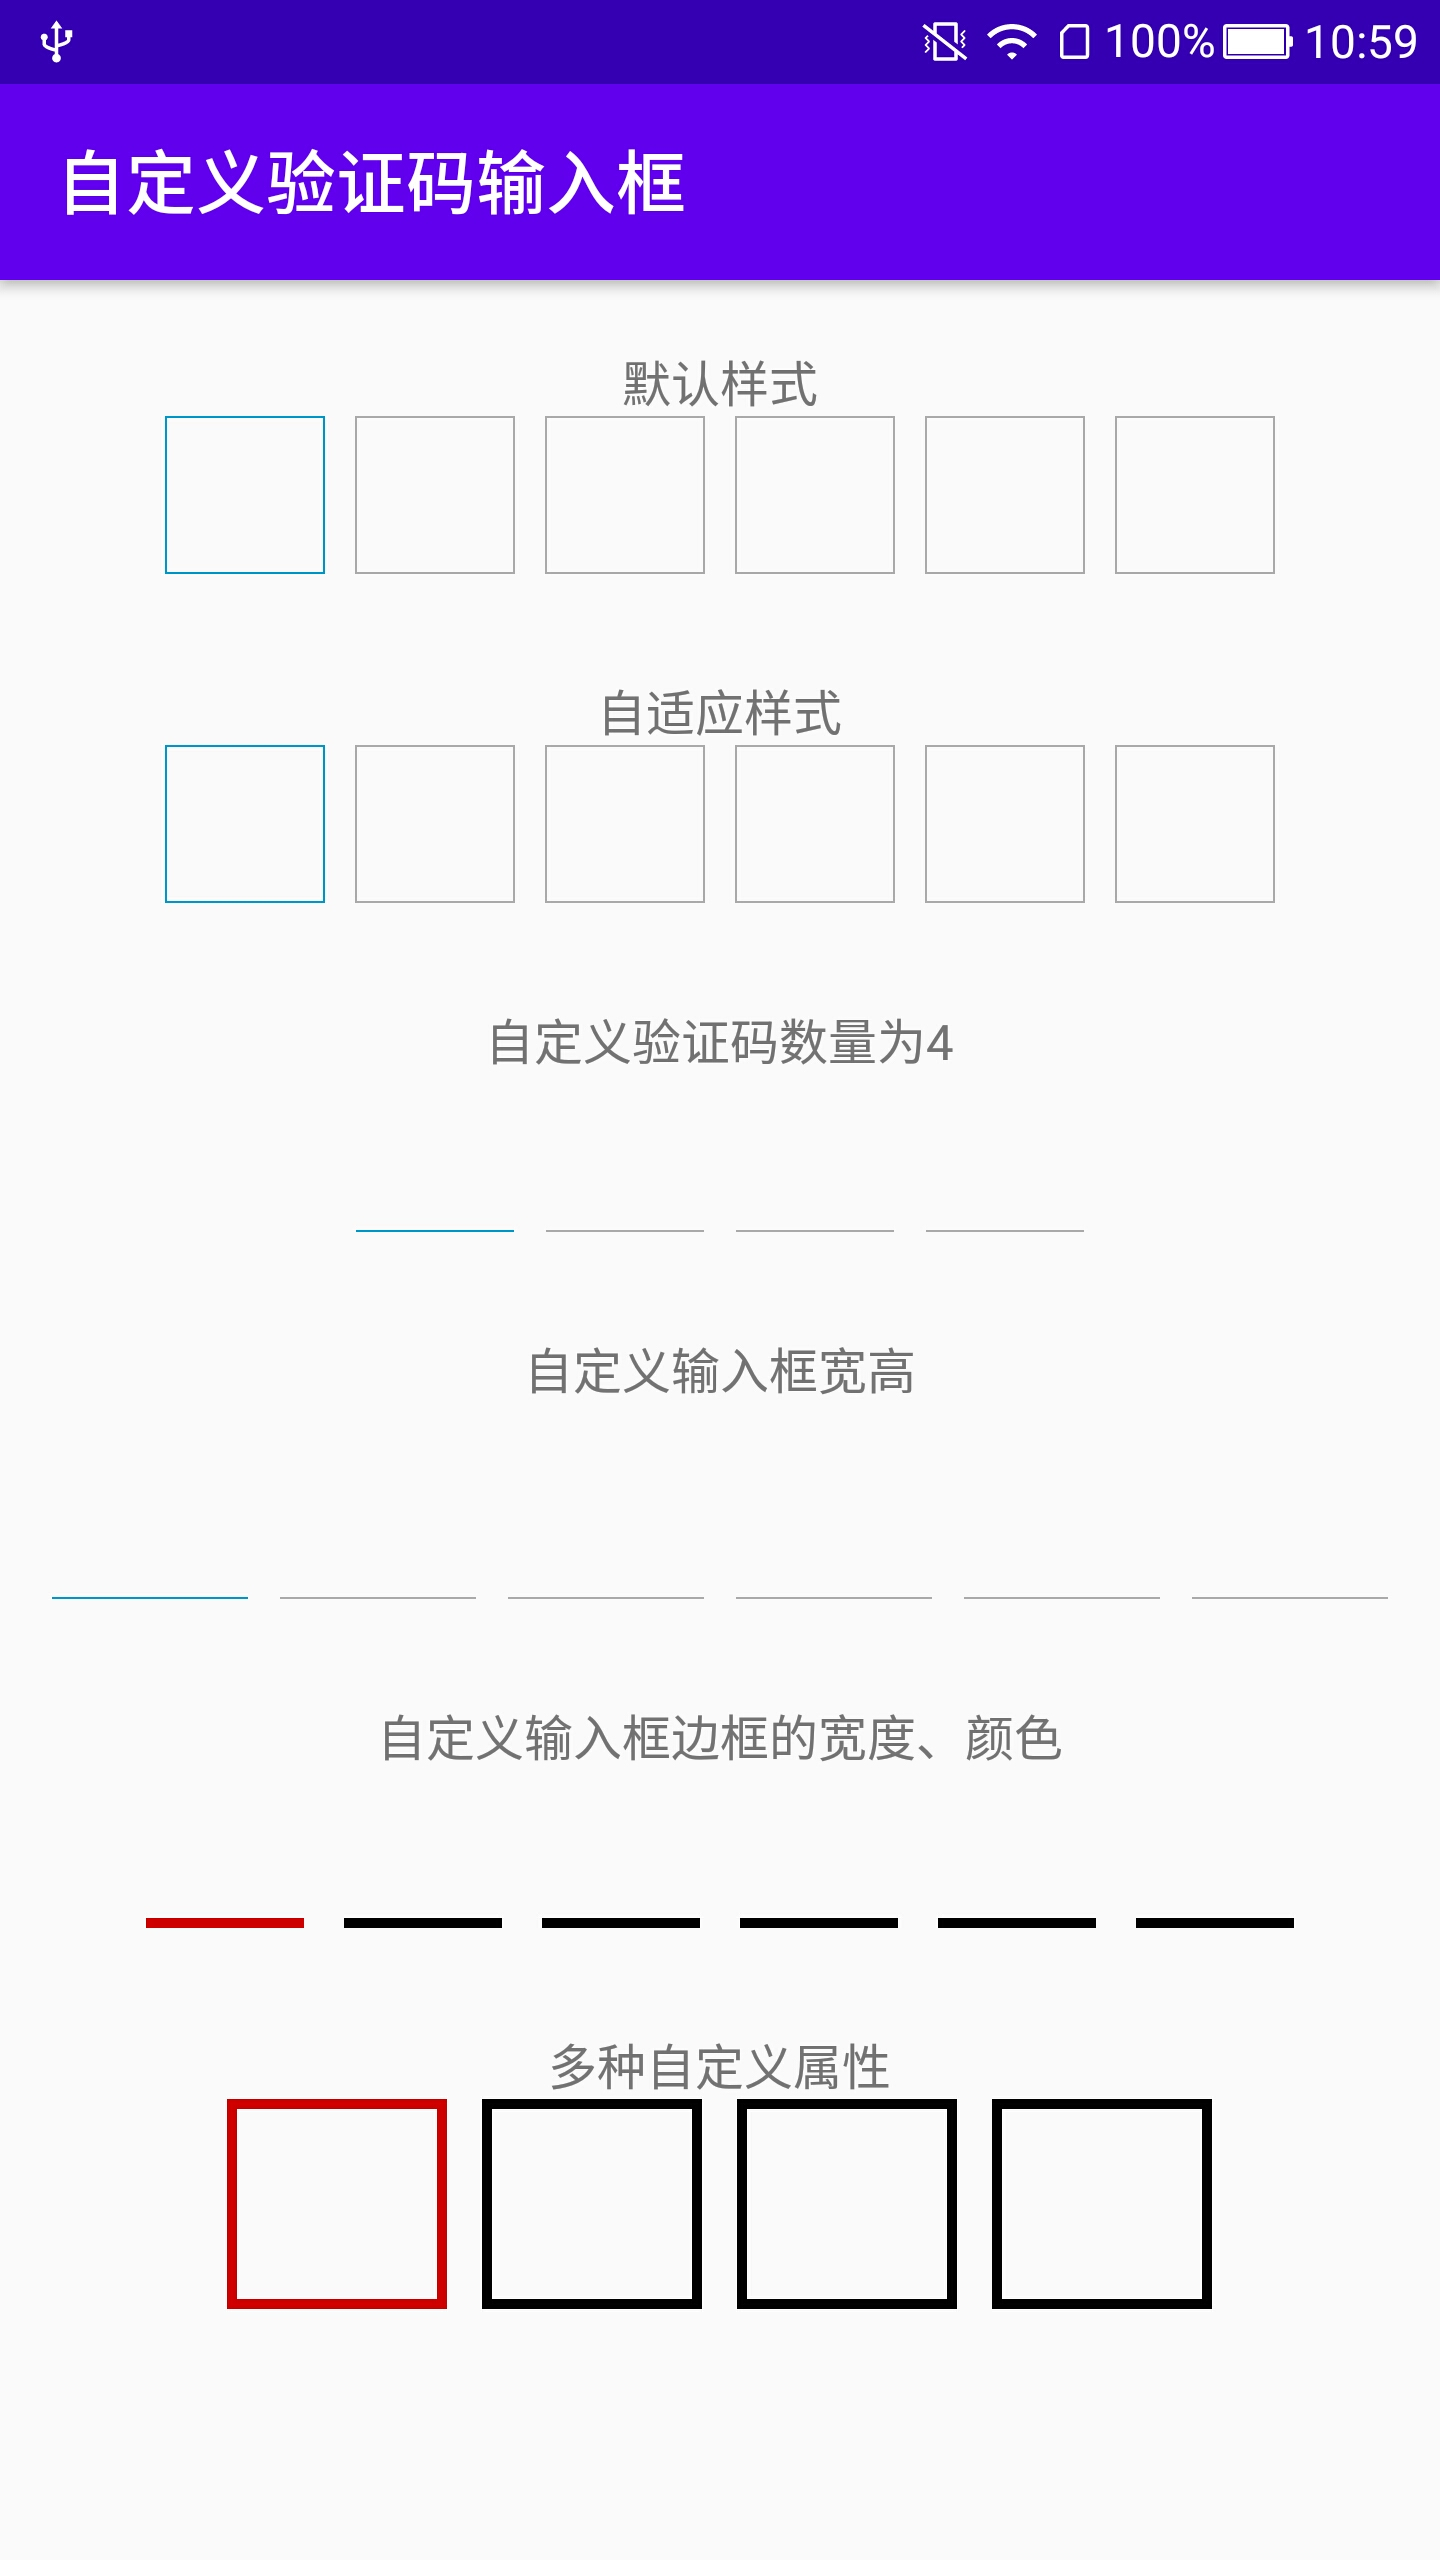
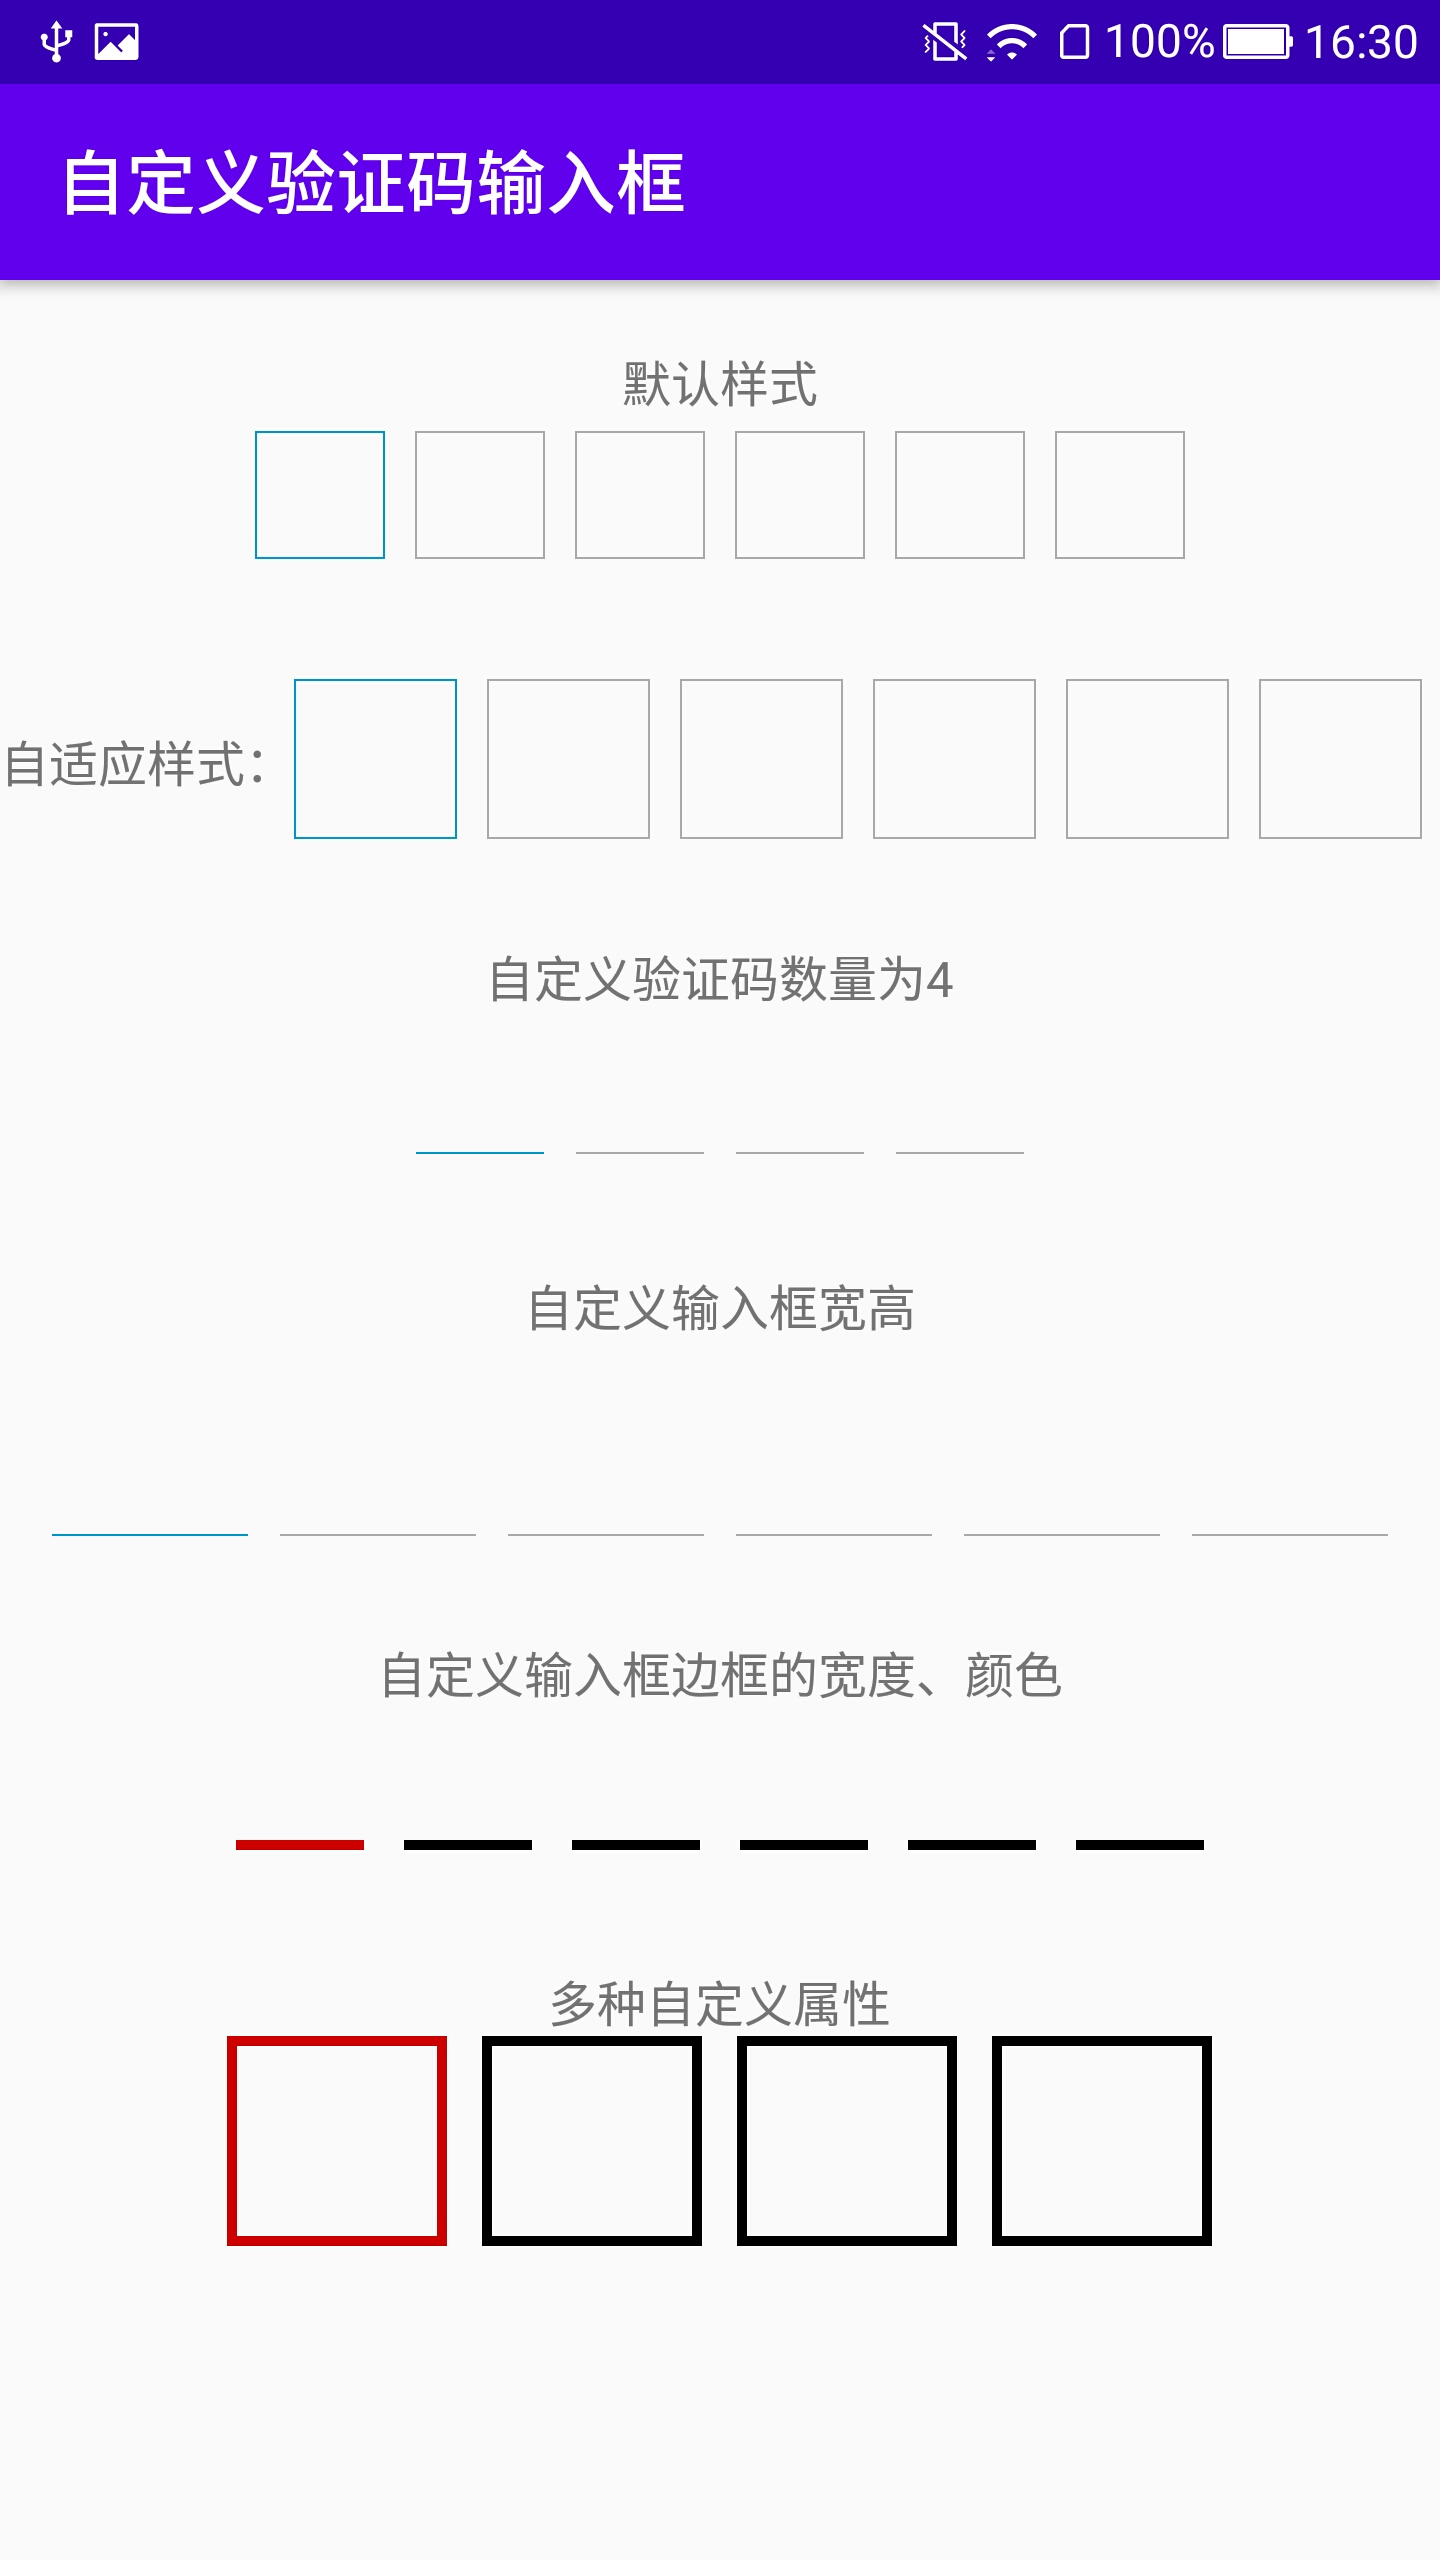
输入框垂直居中显示
输入框垂直居中显示；
输入框宽高以两者中较小值为准；

diff --git a/view/src/main/java/com/cocoas/view/VerifyCodeInputView.java b/view/src/main/java/com/cocoas/view/VerifyCodeInputView.java
@@ -48,6 +48,7 @@ public class VerifyCodeInputView extends AppCompatEditText {
     // 输入框边框高亮颜色
     private int boxBorderColorFocused = getResources().getColor(android.R.color.holo_blue_dark);
     // 输入框是否自动适应父布局宽度：如果不自动适应，则以设定的宽高为准
+    // 该属性需要配合android:layout_width="match_parent"属性一起使用，否则可能无效
     private boolean autoFit;
     // 输入框类型
     private int boxType = BoxType.LINE;
@@ -56,6 +57,8 @@ public class VerifyCodeInputView extends AppCompatEditText {
     private Rect boxRect = new Rect();
     //输入完成监听
     private OnInputFinishedListener onInputFinishedListener;
+    // 输入框中间坐标Y轴高度
+    int centerY = 0;
 
     public VerifyCodeInputView(Context context, AttributeSet attrs) {
         super(context, attrs);
@@ -104,11 +107,12 @@ public class VerifyCodeInputView extends AppCompatEditText {
      * 自动计算输入框宽高和间距
      */
     private void calculateAttrs(int width) {
-        // 计算输入框间间距
-        boxSpacing = (width - (boxBorderHeight + boxWidth) * boxCount) / ( boxCount - 1);
+//        // 计算输入框间间距
+//        boxSpacing = (width - (boxBorderHeight + boxWidth) * boxCount) / ( boxCount - 1);
 //		Logger.d("getMeasuredWidth()=" + width);
-//        boxWidth = boxSpacing * spacingRate;
-//        boxHeight = boxWidth;
+        // 计算输入框宽度
+        boxWidth = (width - boxSpacing * (boxCount - 1) - boxBorderHeight * boxCount) / boxCount;
+        boxHeight = boxWidth;
 //		Logger.w("boxWidth=" + boxWidth + ",boxHeight=" + boxHeight + ",boxSpacing=" + boxSpacing);
     }
 
@@ -140,15 +144,20 @@ public class VerifyCodeInputView extends AppCompatEditText {
         int widthSpecModel = MeasureSpec.getMode(widthMeasureSpec);
         int heightSpecModel = MeasureSpec.getMode(heightMeasureSpec);
         // 比较输入框默认的高度（根据字体大小等自动计算的高度）是否符合设定的高度boxHeight
-        // 最终的高度不能小于输入框默认的高度，以防止输入的数字显示有问题
         if (height < boxHeight) {
             height = boxHeight;
-        }else{
-            // 重置输入框的高度为默认高度
-            boxHeight = height;
         }
-        // 设置单个输入框的宽高相同
-        boxWidth = boxHeight;
+//        else{
+//            // 重置输入框的高度为默认高度
+//            boxHeight = height;
+//        }
+        // 设置单个输入框的宽高相同：取宽高中最小值
+        if(boxWidth < boxHeight){
+            boxHeight = boxWidth;
+        }else{
+            boxWidth = boxHeight;
+        }
+//        boxWidth = boxHeight;
         int actualWidth = (boxWidth + boxBorderHeight) * boxCount + boxSpacing * (boxCount - 1);
         if (widthSpecModel == MeasureSpec.AT_MOST) {
             width = actualWidth;
@@ -175,10 +184,12 @@ public class VerifyCodeInputView extends AppCompatEditText {
 
     @Override
     protected void onDraw(Canvas canvas) {
+        // 输入框中间坐标Y轴高度
+        centerY = canvas.getHeight()/2;
         // 重新绘制输入框：根据设定的输入框类型属性进行绘制
         switch (boxType){
             case BoxType.RECT:// 矩形输入框
-                drawBox(canvas);
+                drawRectBox(canvas);
                 break;
             case BoxType.LINE:// 底部横线输入框
             default:
@@ -203,7 +214,7 @@ public class VerifyCodeInputView extends AppCompatEditText {
         Paint linePaint = new Paint();
         linePaint.setColor(Color.RED);
         // 画线段
-        canvas.drawLine(0,boxHeight/2,canvas.getWidth(),boxHeight/2,linePaint);
+        canvas.drawLine(0,canvas.getHeight()/2,canvas.getWidth(),canvas.getHeight()/2,linePaint);
         //画布还原
         canvas.restoreToCount(saveCount);
     }
@@ -215,7 +226,7 @@ public class VerifyCodeInputView extends AppCompatEditText {
     private void drawLineBox(Canvas canvas){
         // 计算线段坐标（需要考虑画笔的宽度）
         float startX = boxBorderHeight/2;
-        float startY = boxHeight - boxBorderHeight/2;
+        float startY = centerY + boxHeight/2 - boxBorderHeight/2;
         float stopX = startX + boxWidth;
         float stopY = startY;
         /*创建输入框画笔*/
@@ -264,12 +275,12 @@ public class VerifyCodeInputView extends AppCompatEditText {
      *
      * @param canvas
      */
-    private void drawBox(Canvas canvas) {
-        // 计算单个数字输入框的坐标（绘制矩形Rect要为上下左右四条边预留画笔的一半的宽度）
+    private void drawRectBox(Canvas canvas) {
+        // 计算单个数字输入框的坐标:输入框垂直居中
         boxRect.left = boxBorderHeight/2;
-        boxRect.top = boxBorderHeight/2;
+        boxRect.top = centerY - boxHeight/2 + boxBorderHeight/2;
         boxRect.right = boxWidth + boxRect.left;
-        boxRect.bottom = boxHeight - boxRect.top;
+        boxRect.bottom = centerY + boxHeight/2 - boxBorderHeight/2;
          /*创建输入框画笔*/
         Paint boxPaint = new Paint();
         //普通输入框颜色
@@ -335,8 +346,7 @@ public class VerifyCodeInputView extends AppCompatEditText {
             textPaint.getTextBounds(numberText, 0, 1, numberBoundsRect);
             //计算数字的绘制位置
             int x = (boxWidth + boxBorderHeight) / 2 - Math.abs(numberBoundsRect.centerX()) + (boxWidth + boxSpacing + boxBorderHeight) * i;
-            int y = (boxHeight + numberBoundsRect.height())/2;
-
+            int y = centerY + numberBoundsRect.height()/2;
             //绘制数字
             canvas.drawText(numberText, x, y, textPaint);
         }
